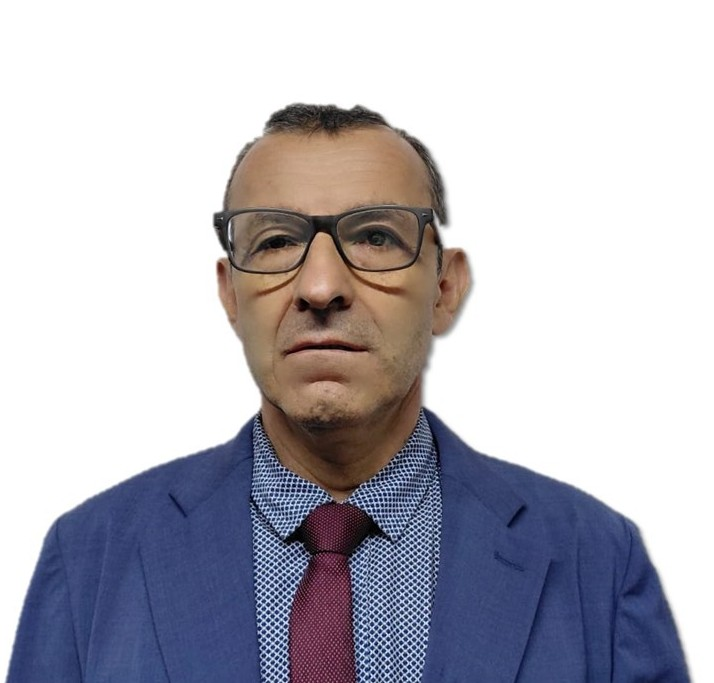
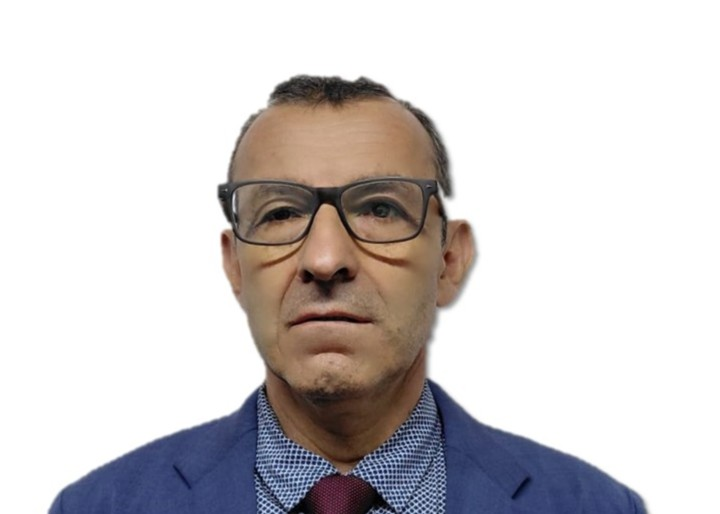
update images

diff --git a/styles/candidatos.css b/styles/candidatos.css
@@ -10,7 +10,7 @@ body {
 }
 
 .logo img {
-    width: 260px;
+    width: 130px;
 }
 
 h1 {
@@ -37,11 +37,13 @@ h1 {
 
 .card img {
     width: 100%;
+    height: 120px;
+    object-fit: cover;
     border-radius: 15px;
 }
 
 .selected {
-    border: 4px solid #2e7d32;
+    border: 4px solid #4fc7b3;
 }
 
 .center {
@@ -58,11 +60,22 @@ button {
     background: #2e7d32;
     color: white;
 }
-.card{
-transition:transform 0.2s, box-shadow 0.2s;
+
+.card {
+    transition: transform 0.2s, box-shadow 0.2s;
 }
 
-.card:hover{
-transform:scale(1.03);
-box-shadow:0 6px 16px rgba(0,0,0,0.2);
+.card:hover {
+    transform: scale(1.03);
+    box-shadow: 0 6px 16px rgba(0, 0, 0, 0.2);
+}
+
+.panel-candidatos {
+    background: rgba(255, 255, 255, 0.95);
+    backdrop-filter: blur(5px);
+    border-radius: 20px;
+    padding: 30px;
+    max-width: 1000px;
+    margin: auto;
+    box-shadow: 0 10px 25px rgba(0, 0, 0, 0.25);
 }

diff --git a/fronts/candidatos.html b/fronts/candidatos.html
@@ -24,7 +24,9 @@
 
     <h1>Elección de Diáconos - ICRCV</h1>
 
-    <div class="grid" id="candidatos"></div>
+    <div class="panel-candidatos">
+        <div class="grid" id="candidatos"></div>
+    </div>
 
     <div class="center">
         <button onclick="irConfirmacion()">Votar</button>
